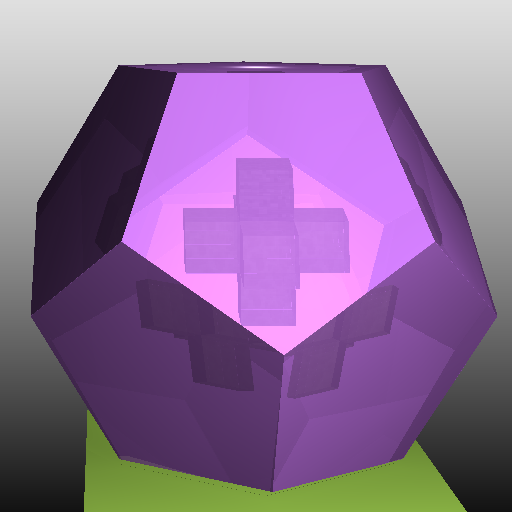
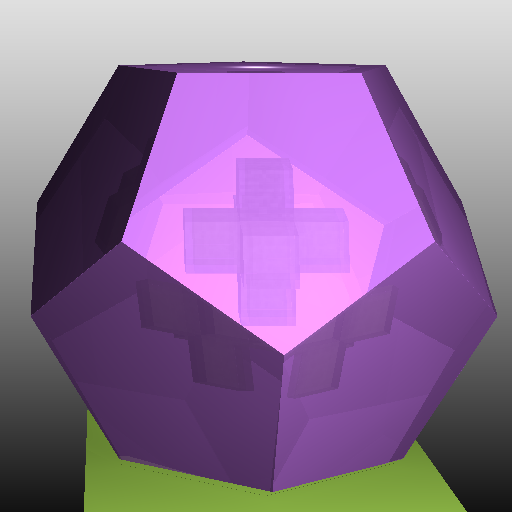
Quality out

diff --git a/Source/main.cpp b/Source/main.cpp
@@ -96,6 +96,7 @@ trace_ray(std::vector<Object *> *scene, std::vector<Light> *lights, Ray ray, int
             if ((reality == -1) || tmp.real || !reality) {
                 hit = tmp;
                 obj_ind = i;
+                hit.object = i;
             }
         }
     }
@@ -154,7 +155,17 @@ trace_ray(std::vector<Object *> *scene, std::vector<Light> *lights, Ray ray, int
         } else {
             hit.color = hit.color * count_lights(scene, lights, ray, hit);
         }
-    
+        if (hit.object > 0 && hit.object < scene->size() - 1) {
+            Ray x_plus_ray = Ray(Vec(ray.pos.x + SIZE / 60, ray.pos.y, ray.pos.z), ray.dir);
+            Ray x_minus_ray = Ray(Vec(ray.pos.x - SIZE / 60, ray.pos.y, ray.pos.z), ray.dir);
+            Ray y_plus_ray = Ray(Vec(ray.pos.x, ray.pos.y + SIZE / 60, ray.pos.z), ray.dir);
+            Ray y_minus_ray = Ray(Vec(ray.pos.x, ray.pos.y - SIZE / 60, ray.pos.z), ray.dir);
+            Collision x_plus_col = trace_ray(scene, lights, x_plus_ray, std::min(2, deep - 1), reality);
+            Collision x_minus_col = trace_ray(scene, lights, x_minus_ray, std::min(2, deep - 1), reality);
+            Collision y_plus_col = trace_ray(scene, lights, y_plus_ray, std::min(2, deep - 1), reality);
+            Collision y_minus_col = trace_ray(scene, lights, y_minus_ray, std::min(2, deep - 1), reality);
+            hit.color = (hit.color * 0.6) + (x_plus_col.color * 0.1) + (x_minus_col.color * 0.1) + (y_plus_col.color * 0.1) + (y_minus_col.color * 0.1);
+        }    
     }
     
     return hit;
@@ -258,7 +269,7 @@ render(int size) {
         for (int y = 0; y < size; y++) {
             Vec dir = (Vec(x, y, 0) - me).normalize();
             Ray ray = Ray(me, dir);
-            Collision hit = trace_ray(&scene, &lights, ray, 8, -1);
+            Collision hit = trace_ray(&scene, &lights, ray, 6, -1);
             
             if (hit.hit) {
                 buffer[x + y * size] = hit.color;

diff --git a/Lib/geom.h b/Lib/geom.h
@@ -68,6 +68,7 @@ struct Collision {
     float reflection;
     float absorbtion;
     bool real;
+    int object;
     Collision() : real(true), hit(false), dist(), normal(), color() {}        
 };
 
